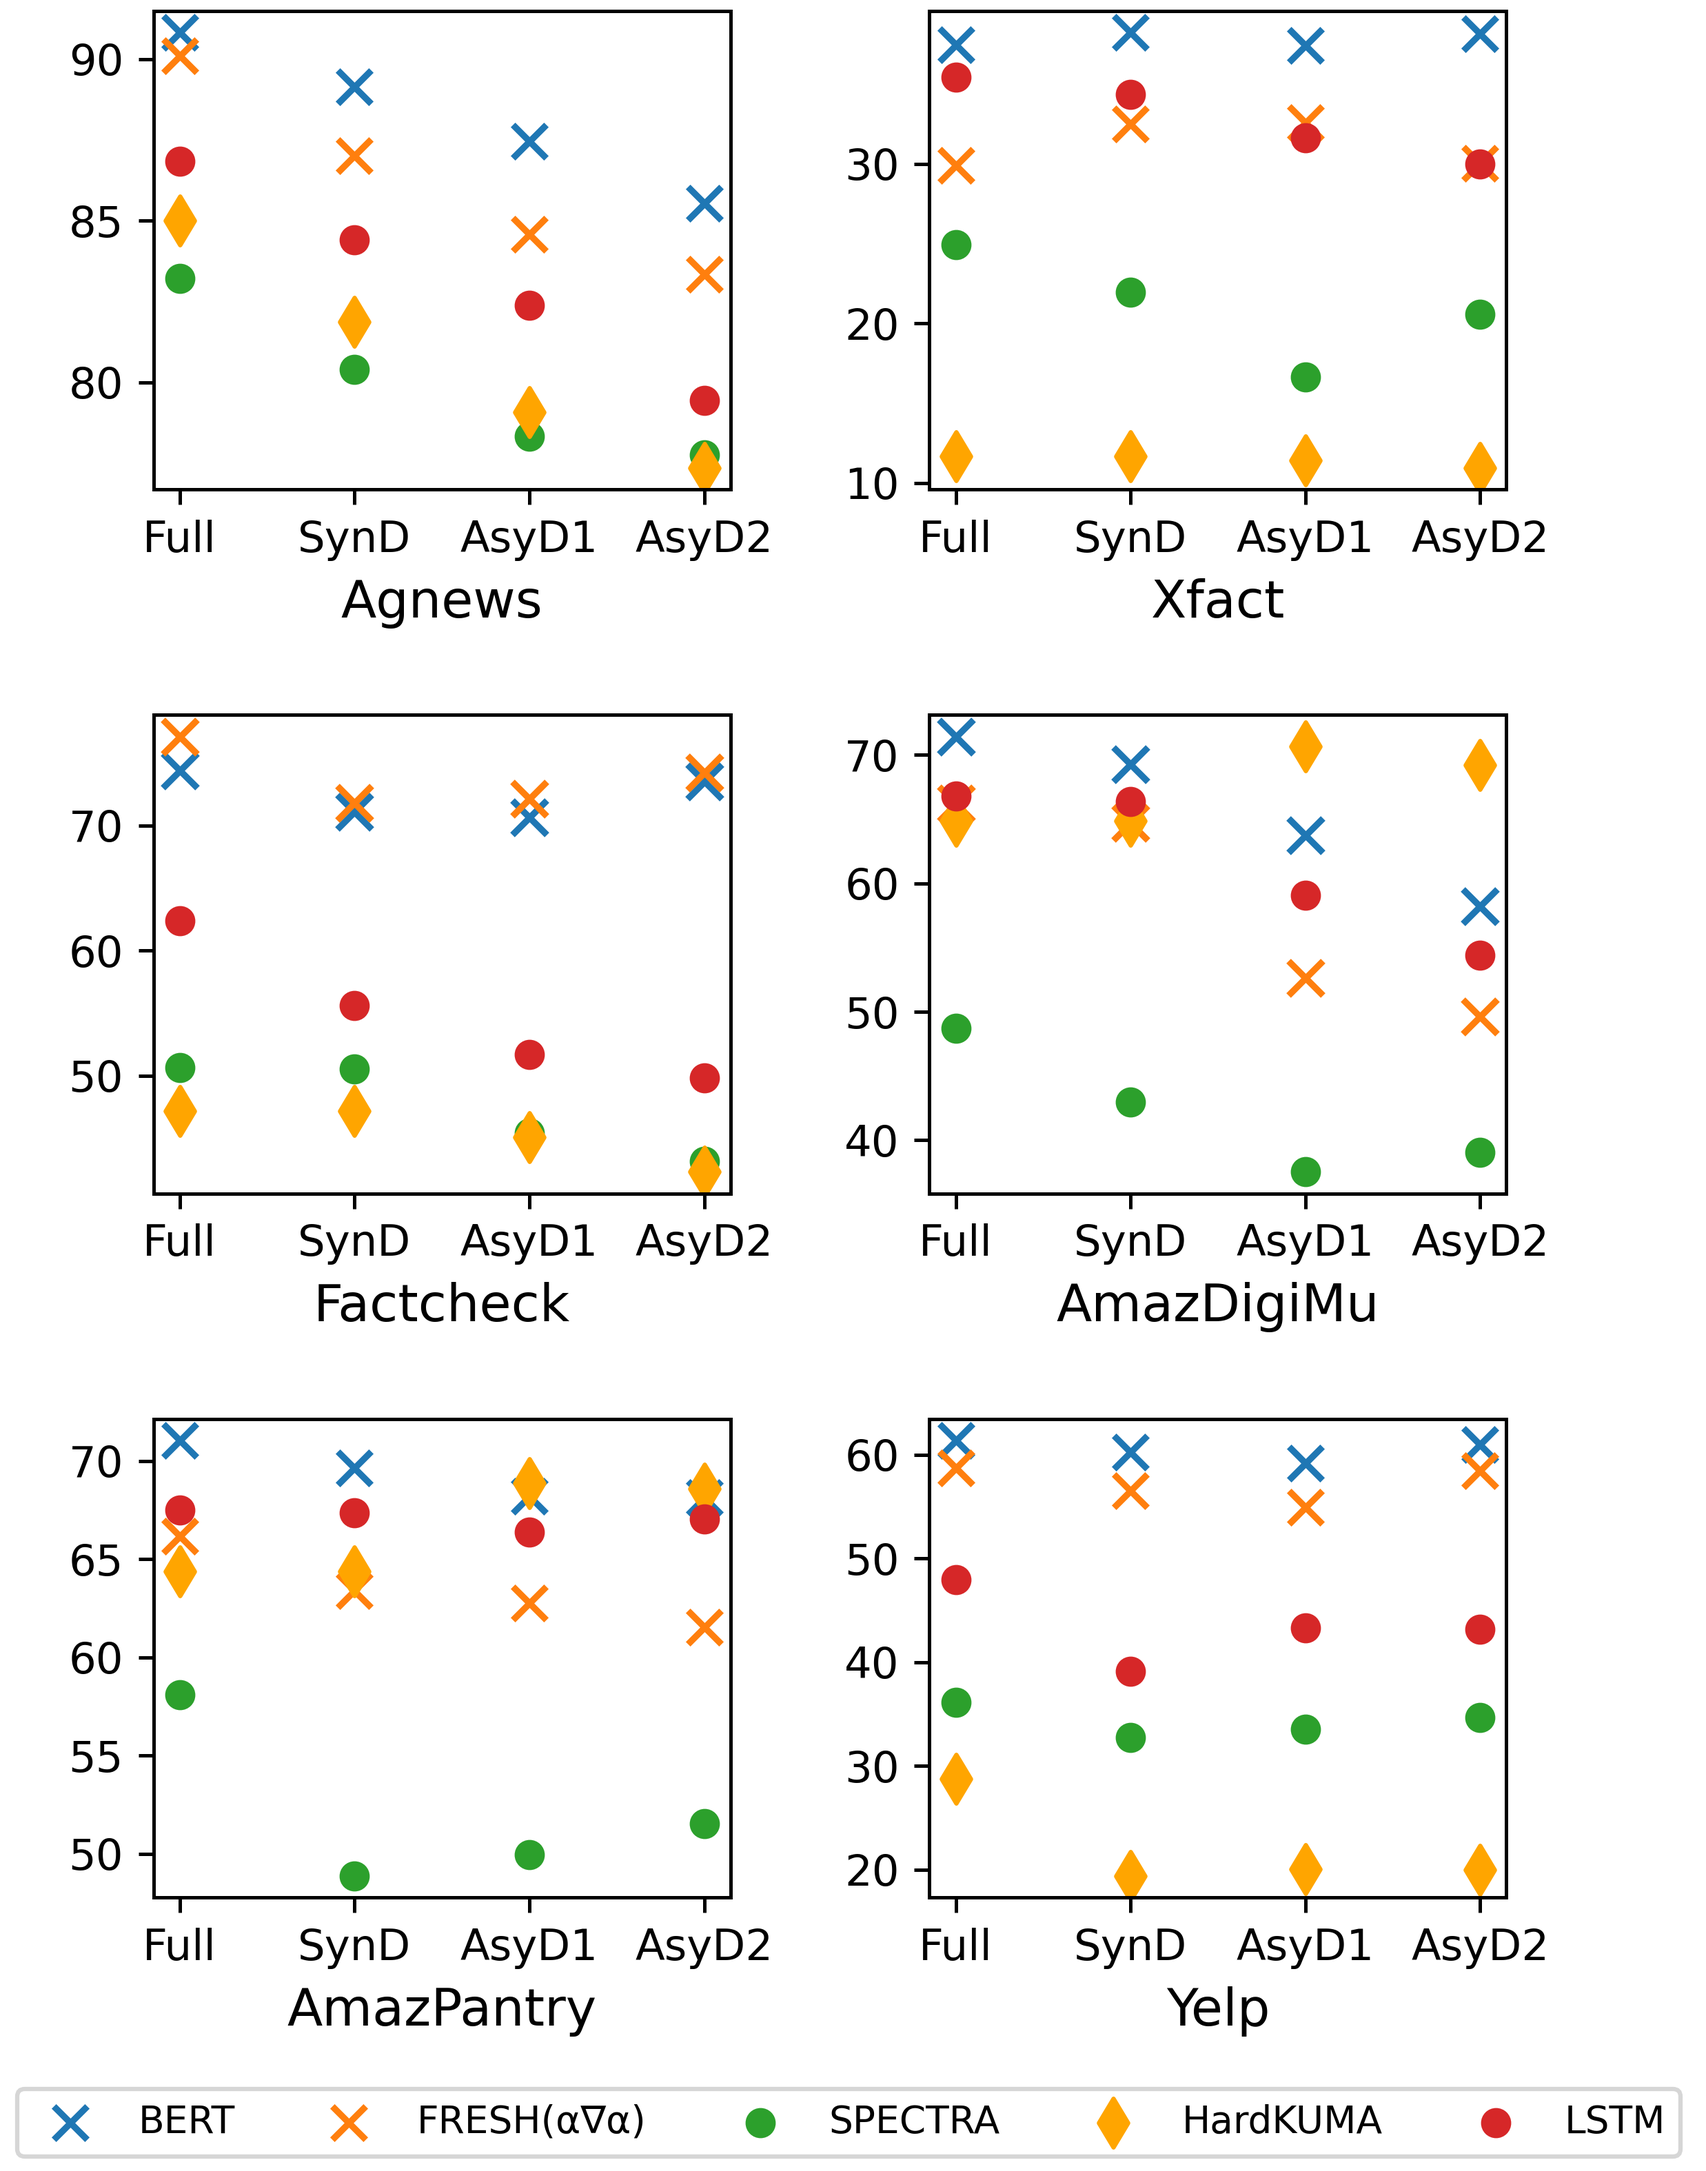
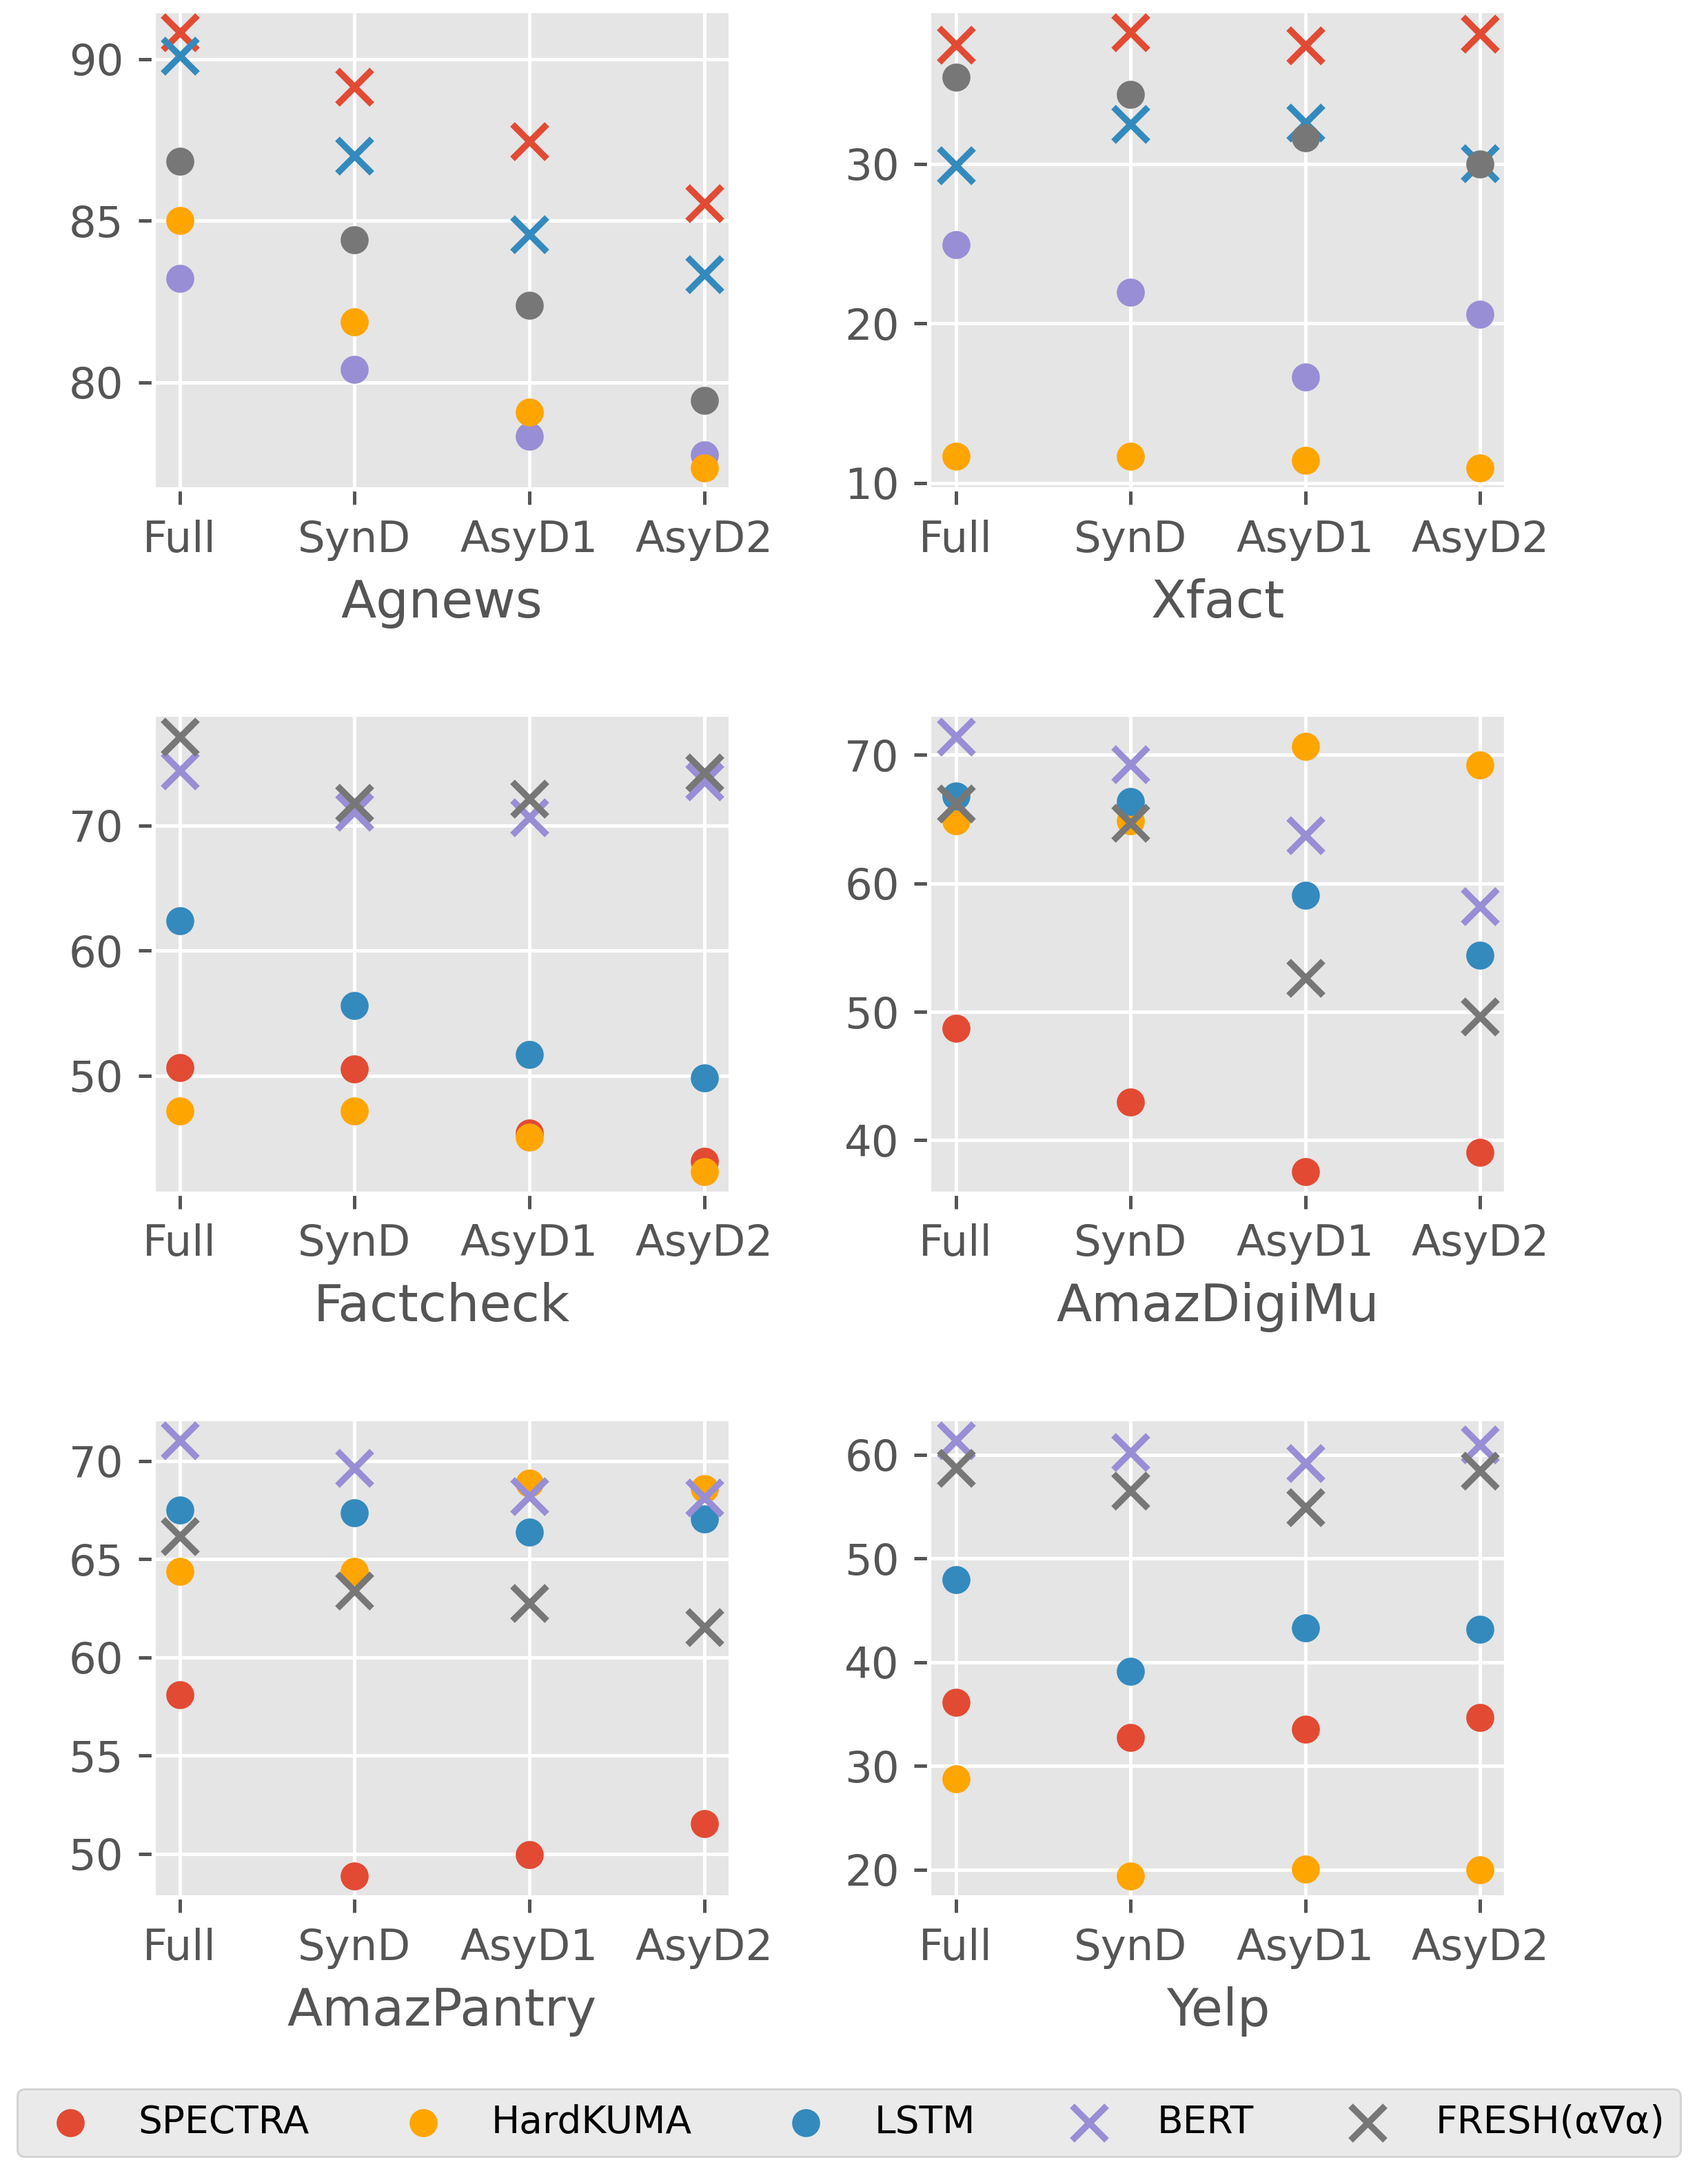
m

diff --git a/saved_everything/post_analysis.py b/saved_everything/post_analysis.py
@@ -63,25 +63,25 @@ for i, name in enumerate(task_list):
     print(df)
 
     if i < 2:
-        axs[0, i].scatter(df['Domain'], df['BERT'], label='BERT', marker='x', s=makersize)
-        axs[0, i].scatter(df['Domain'], df['FRESH'], label='FRESH(α∇α)', marker='x', s=makersize)
+        axs[0, i].scatter(df['Domain'], df['BERT'], label='BERT', marker='x', s=makersize+4)
+        axs[0, i].scatter(df['Domain'], df['FRESH'], label='FRESH(α∇α)', marker='x', s=makersize+4)
         axs[0, i].scatter(df['Domain'], df['SPECTRA'], label='SPECTRA')
-        axs[0, i].scatter(df['Domain'], df['KUMA'], label='HardKUMA', marker='d', color='orange', s=makersize+4)
+        axs[0, i].scatter(df['Domain'], df['KUMA'], label='HardKUMA', color='orange')
         axs[0, i].scatter(df['Domain'], df['LSTM'], label='LSTM')
         axs[0, i].set_xlabel(SUB_NAME,fontsize=xlabel_size)
     elif i > 3:
-        axs[2, i-4].scatter(df['Domain'], df['BERT'], label='BERT', marker='x', s=makersize)
-        axs[2, i-4].scatter(df['Domain'], df['FRESH'], label='FRESH(α∇α)', marker='x', s=makersize)
         axs[2, i-4].scatter(df['Domain'], df['SPECTRA'], label='SPECTRA')
-        axs[2, i-4].scatter(df['Domain'], df['KUMA'], label='HardKUMA', marker='d', color='orange', s=makersize+4)
+        axs[2, i-4].scatter(df['Domain'], df['KUMA'], label='HardKUMA', color='orange')
         axs[2, i-4].scatter(df['Domain'], df['LSTM'], label='LSTM')
         axs[2, i-4].set_xlabel(SUB_NAME,fontsize=xlabel_size)
+        axs[2, i-4].scatter(df['Domain'], df['BERT'], label='BERT', marker='x', s=makersize+4)
+        axs[2, i-4].scatter(df['Domain'], df['FRESH'], label='FRESH(α∇α)', marker='x', s=makersize+4)
     else:
+        axs[1, i-2].scatter(df['Domain'], df['SPECTRA'], label='SPECTRA')
+        axs[1, i-2].scatter(df['Domain'], df['KUMA'], label='HardKUMA', color='orange')
+        axs[1, i-2].scatter(df['Domain'], df['LSTM'], label='LSTM')
         axs[1, i-2].scatter(df['Domain'], df['BERT'], label='BERT', marker='x', s=makersize+4)
         axs[1, i-2].scatter(df['Domain'], df['FRESH'], label='FRESH(α∇α)', marker='x', s=makersize+4)
-        axs[1, i-2].scatter(df['Domain'], df['SPECTRA'], label='SPECTRA')
-        axs[1, i-2].scatter(df['Domain'], df['KUMA'], label='HardKUMA', marker='d', color='orange', s=makersize+4)
-        axs[1, i-2].scatter(df['Domain'], df['LSTM'], label='LSTM')
         axs[1, i-2].set_xlabel(SUB_NAME,fontsize=xlabel_size)
     
 #fig.suptitle('Predictive Performance Comparison of Selective Rationalizations', fontsize=12)
